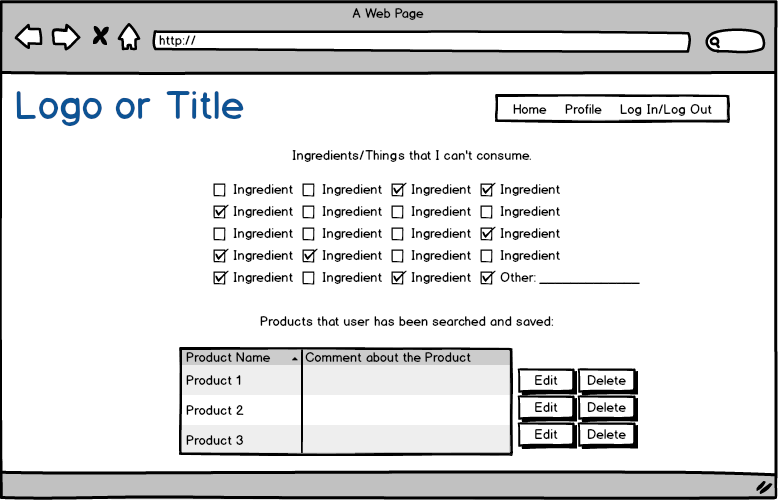
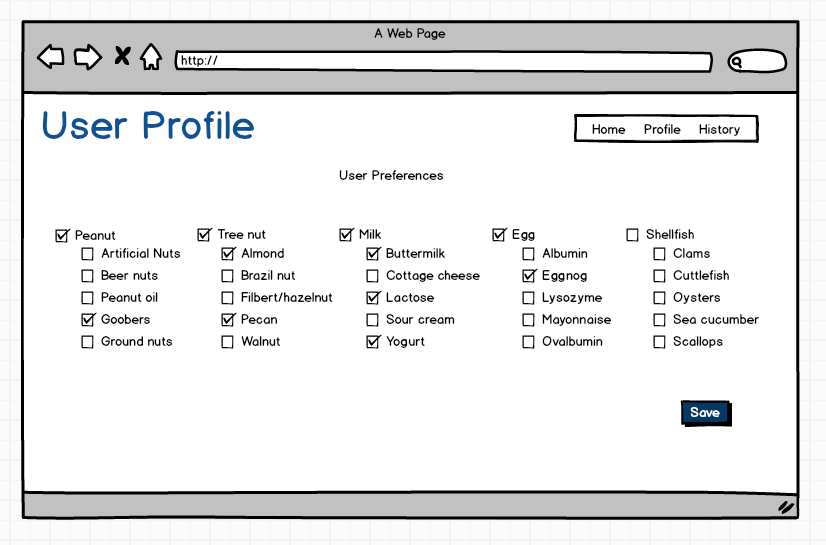
change in wireframes and making changes in the order

diff --git a/README.md b/README.md
@@ -1,25 +1,12 @@
-# Project 3 (name TBD) - Group: Esraa, Francheska, Naomi
------------------------
+# Project 3 (Can I Eat This?)
+
+## Group 7: Esraa, Francheska, Naomi
 
 An app for people who care about the ingredients they're buying! Quickly and easily take a picture of the ingredient list or barcode of a product such as shampoo, energy bar, baby food, soap, chap stick, cookie, or pretty much anything, and the app will give you more information about each ingredient from that long and hard to read list of ingredients.
 
 If you have any kind of allergies, dietary restrictions, such as gluten-free, vegetarian, lactose-intolerant, or cultural preferences such as Halal or Kosher you can easily log in, build a user profile, and save your unique preferences.
 
-
-## Wireframes
-----------
-
-### Homepage:
-![homepage](./images/homepage.png)
-
-### Product-Info Page:
-![product-info](./images/product-info.png)
-
-### User-Profile:
-![user-profile](./images/user-profile.png)
-
 ## User Stories
-------------
 
 - As a user, I want to quickly and easily take a picture of the info section of a product and immediately see if the product contains any ingredients I don't want to buy. 
 
@@ -29,43 +16,65 @@ If you have any kind of allergies, dietary restrictions, such as gluten-free, ve
 
 - As a user, I want to be able to edit/update/delete my saved product ingredients on my user profile.
 
-##  Pseudocode
-----------
+## Wireframes (Web Version)
 
-Here is the initial thinking we started with:
+### Here is the initial thinking we started with:
+
 ![initial-thinking](./images/initial-thinking.jpg)
 
+### Homepage:
+![homepage](./images/homepage.png)
+
+### Product Info:
+![product-info](./images/product-info.png)
+
+### User Profile:
+![user-profile](./images/user-profile.png)
+
+### History:
+![history](./images/history.png)
+
+## Wireframes (Mobile Version)
+
+### Homepage, Scan Barcode and Product Info:
+![mobile1-3](./images/mobile1-3.png)
+
+### User Profile and History:
+![mobile4-5](./images/mobile4-5.png)
+
+## Pseudocode
+
+## Workflow
+
+1. Grab the item barcode (by scanning the UPC number, or write it in an input field).
+2. Make an axios call to find the product information (product name, ingredients).
+3. Save the product information in the database.
+4. Get the user allergies information, and save it the database.
+5. Compare the product ingredients with the user allergies, and generate a result.
+6. Display the result to the user.
+
+![workflow](./images/workflow.jpeg)
 
 ## ERD or other visual representation of your database
----
 
-** Need to add this on Tuesday **
+![database](./images/database.png)
 
-## Technologies used/npm Modules
------------
+## Technologies used
 
 ### Core Stack:
+- HTML
+- CSS
+- JavaScript
+- jQuery
 - React
 - Node
 - Express
 - PostgreSQL
-- JavaScript
-- jQuery
-- HTML
-- CSS
-
-### Additional components:
-
-### APIs:
-- Google Cloud Optical Character Recognition (OCR) API
-
-- POTENTIAL APIs: 
-- https://www.textibility.com 
-- https://www.foodallergy.org
-- https://www.nutritionix.com
-- http://developer.clarifai.com
+- Heroku
+- GitHub
 
 ### Middleware:
+
 - nodemon
 - pg-promise
 - AuthO
@@ -73,9 +82,12 @@ Here is the initial thinking we started with:
 - CSS Frameworks
 - and more...
 
+### APIs:
+
+- Google Cloud Optical Character Recognition (OCR) API
+- https://www.nutritionix.com
 
 ## Download Project & Install
-----------------
 
 1. Git clone or download this project
 2. Create a PostgreSQL database called 'TBD'
